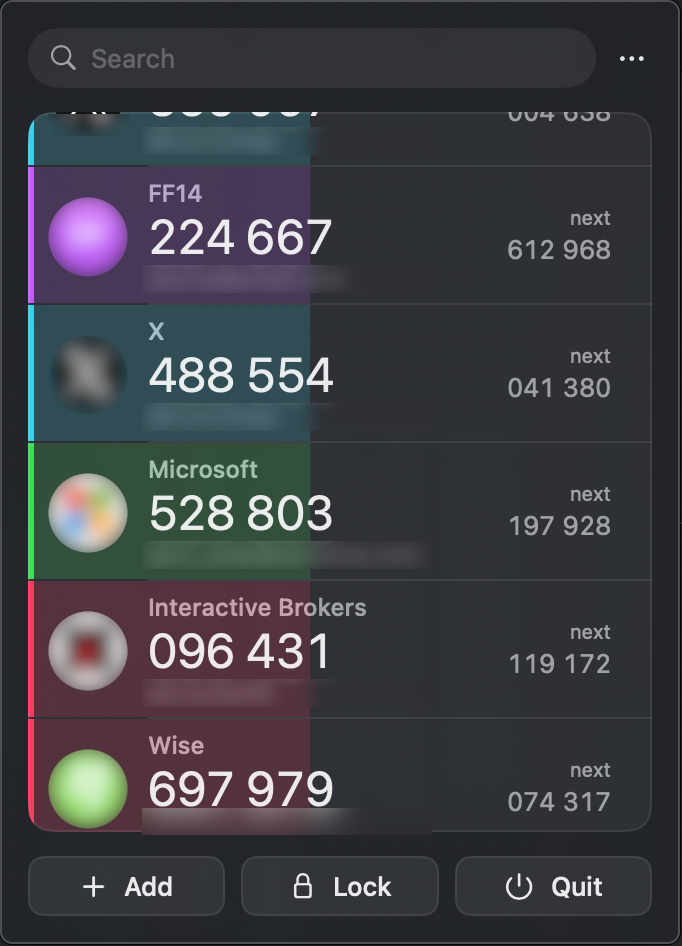
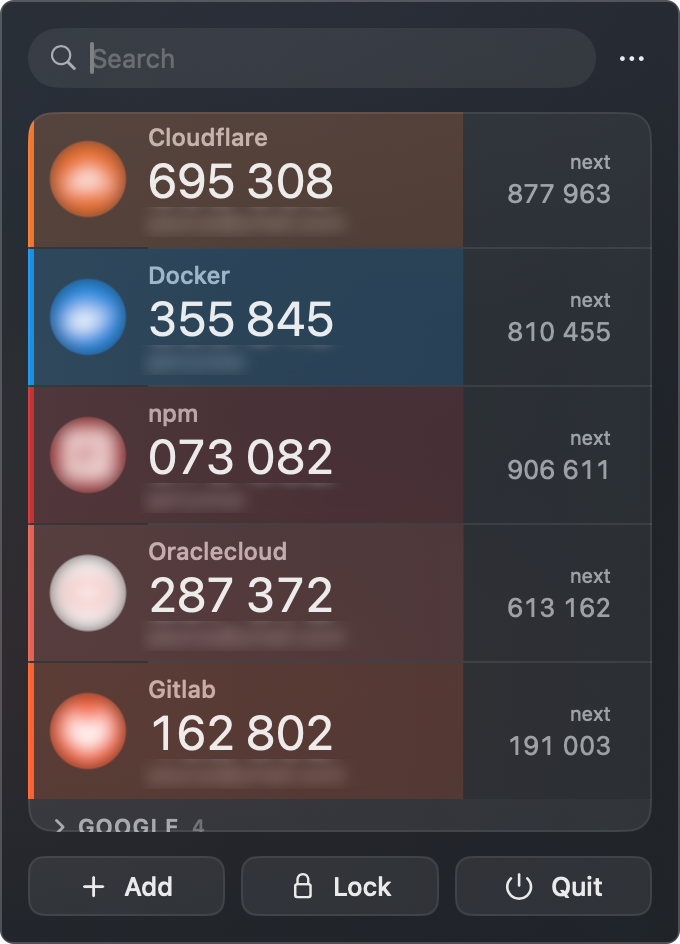
docs: update the panel screenshot

diff --git a/translations/README.ja.md b/translations/README.ja.md
@@ -32,7 +32,7 @@
 </p>
 
 <p align="center">
-  <img src="../docs/screenshots/panel.png" width="340" alt="TrayOTPのパネル：検索フィールド、名前・コード・アカウント・次のコードを表示したトークン、折りたたまれたDEVグループ、追加・ロック・終了ボタン">
+  <img src="../docs/screenshots/panel.png" width="340" alt="TrayOTPのパネル：検索フィールド、名前・コード・アカウント・次のコードを表示したトークン、折りたたまれたGOOGLEグループ、追加・ロック・終了ボタン">
 </p>
 
 > この翻訳は[英語版README](../README.md)より古い場合があります。内容が異なる場合は英語版が優先されます。

diff --git a/translations/README.pt-BR.md b/translations/README.pt-BR.md
@@ -32,7 +32,7 @@
 </p>
 
 <p align="center">
-  <img src="../docs/screenshots/panel.png" width="340" alt="O painel do TrayOTP: um campo de busca, tokens com nome, código, conta e próximo código, um grupo DEV recolhido e os botões Adicionar, Bloquear e Encerrar">
+  <img src="../docs/screenshots/panel.png" width="340" alt="O painel do TrayOTP: um campo de busca, tokens com nome, código, conta e próximo código, um grupo GOOGLE recolhido e os botões Adicionar, Bloquear e Encerrar">
 </p>
 
 > Esta tradução pode estar desatualizada em relação ao [README em inglês](../README.md). Em caso de dúvida, vale a versão em inglês.

diff --git a/translations/README.es.md b/translations/README.es.md
@@ -32,7 +32,7 @@
 </p>
 
 <p align="center">
-  <img src="../docs/screenshots/panel.png" width="340" alt="El panel de TrayOTP: un campo de búsqueda, tokens con nombre, código, cuenta y siguiente código, un grupo DEV contraído y los botones Añadir, Bloquear y Salir">
+  <img src="../docs/screenshots/panel.png" width="340" alt="El panel de TrayOTP: un campo de búsqueda, tokens con nombre, código, cuenta y siguiente código, un grupo GOOGLE contraído y los botones Añadir, Bloquear y Salir">
 </p>
 
 > Esta traducción puede ir por detrás del [README en inglés](../README.md). En caso de duda, prevalece la versión en inglés.

diff --git a/translations/README.fr.md b/translations/README.fr.md
@@ -32,7 +32,7 @@
 </p>
 
 <p align="center">
-  <img src="../docs/screenshots/panel.png" width="340" alt="Le panneau TrayOTP : un champ de recherche, des jetons avec nom, code, compte et code suivant, un groupe DEV replié, et les boutons Ajouter, Verrouiller et Quitter">
+  <img src="../docs/screenshots/panel.png" width="340" alt="Le panneau TrayOTP : un champ de recherche, des jetons avec nom, code, compte et code suivant, un groupe GOOGLE replié, et les boutons Ajouter, Verrouiller et Quitter">
 </p>
 
 > Cette traduction peut être en retard sur le [README anglais](../README.md). En cas de doute, la version anglaise fait foi.

diff --git a/translations/README.it.md b/translations/README.it.md
@@ -32,7 +32,7 @@
 </p>
 
 <p align="center">
-  <img src="../docs/screenshots/panel.png" width="340" alt="Il pannello di TrayOTP: un campo di ricerca, token con nome, codice, account e codice successivo, un gruppo DEV compresso e i pulsanti Aggiungi, Blocca ed Esci">
+  <img src="../docs/screenshots/panel.png" width="340" alt="Il pannello di TrayOTP: un campo di ricerca, token con nome, codice, account e codice successivo, un gruppo GOOGLE compresso e i pulsanti Aggiungi, Blocca ed Esci">
 </p>
 
 > Questa traduzione potrebbe essere meno aggiornata del [README in inglese](../README.md). In caso di dubbio vale la versione inglese.

diff --git a/translations/README.de.md b/translations/README.de.md
@@ -32,7 +32,7 @@
 </p>
 
 <p align="center">
-  <img src="../docs/screenshots/panel.png" width="340" alt="Das TrayOTP-Fenster: ein Suchfeld, Tokens mit Name, Code, Account und nächstem Code, eine zugeklappte Gruppe DEV sowie die Tasten Hinzufügen, Sperren und Beenden">
+  <img src="../docs/screenshots/panel.png" width="340" alt="Das TrayOTP-Fenster: ein Suchfeld, Tokens mit Name, Code, Account und nächstem Code, eine zugeklappte Gruppe GOOGLE sowie die Tasten Hinzufügen, Sperren und Beenden">
 </p>
 
 > Diese Übersetzung kann hinter der [englischen README](../README.md) zurückliegen. Im Zweifel gilt die englische Fassung.

diff --git a/translations/README.ko.md b/translations/README.ko.md
@@ -32,7 +32,7 @@
 </p>
 
 <p align="center">
-  <img src="../docs/screenshots/panel.png" width="340" alt="TrayOTP 패널: 검색 필드, 이름·코드·계정·다음 코드가 표시된 토큰, 접힌 DEV 그룹, 추가·잠금·종료 버튼">
+  <img src="../docs/screenshots/panel.png" width="340" alt="TrayOTP 패널: 검색 필드, 이름·코드·계정·다음 코드가 표시된 토큰, 접힌 GOOGLE 그룹, 추가·잠금·종료 버튼">
 </p>
 
 > 이 번역은 [영어 README](../README.md)보다 오래되었을 수 있습니다. 내용이 다르면 영어 버전이 우선합니다.

diff --git a/translations/README.zh-Hant.md b/translations/README.zh-Hant.md
@@ -32,7 +32,7 @@
 </p>
 
 <p align="center">
-  <img src="../docs/screenshots/panel.png" width="340" alt="TrayOTP 面板：搜尋欄位、顯示名稱、驗證碼、帳號和下一個驗證碼的代符、收合的 DEV 群組，以及加入、鎖定和結束按鈕">
+  <img src="../docs/screenshots/panel.png" width="340" alt="TrayOTP 面板：搜尋欄位、顯示名稱、驗證碼、帳號和下一個驗證碼的代符、收合的 GOOGLE 群組，以及加入、鎖定和結束按鈕">
 </p>
 
 > 本譯文可能落後於[英文 README](../README.md)。如有出入，以英文版為準。

diff --git a/translations/README.zh-Hans.md b/translations/README.zh-Hans.md
@@ -32,7 +32,7 @@
 </p>
 
 <p align="center">
-  <img src="../docs/screenshots/panel.png" width="340" alt="TrayOTP 面板：搜索栏、显示名称、验证码、账户和下一个验证码的令牌、折叠的 DEV 分组，以及添加、锁定和退出按钮">
+  <img src="../docs/screenshots/panel.png" width="340" alt="TrayOTP 面板：搜索栏、显示名称、验证码、账户和下一个验证码的令牌、折叠的 GOOGLE 分组，以及添加、锁定和退出按钮">
 </p>
 
 > 本译文可能落后于[英文 README](../README.md)。如有出入，以英文版为准。

diff --git a/README.md b/README.md
@@ -32,7 +32,7 @@
 </p>
 
 <p align="center">
-  <img src="docs/screenshots/panel.png" width="340" alt="The TrayOTP panel: a search field, tokens showing name, code, account and next code, a collapsed DEV group, and Add, Lock and Quit buttons">
+  <img src="docs/screenshots/panel.png" width="340" alt="The TrayOTP panel: a search field, tokens showing name, code, account and next code, a collapsed GOOGLE group, and Add, Lock and Quit buttons">
 </p>
 
 ## Features
